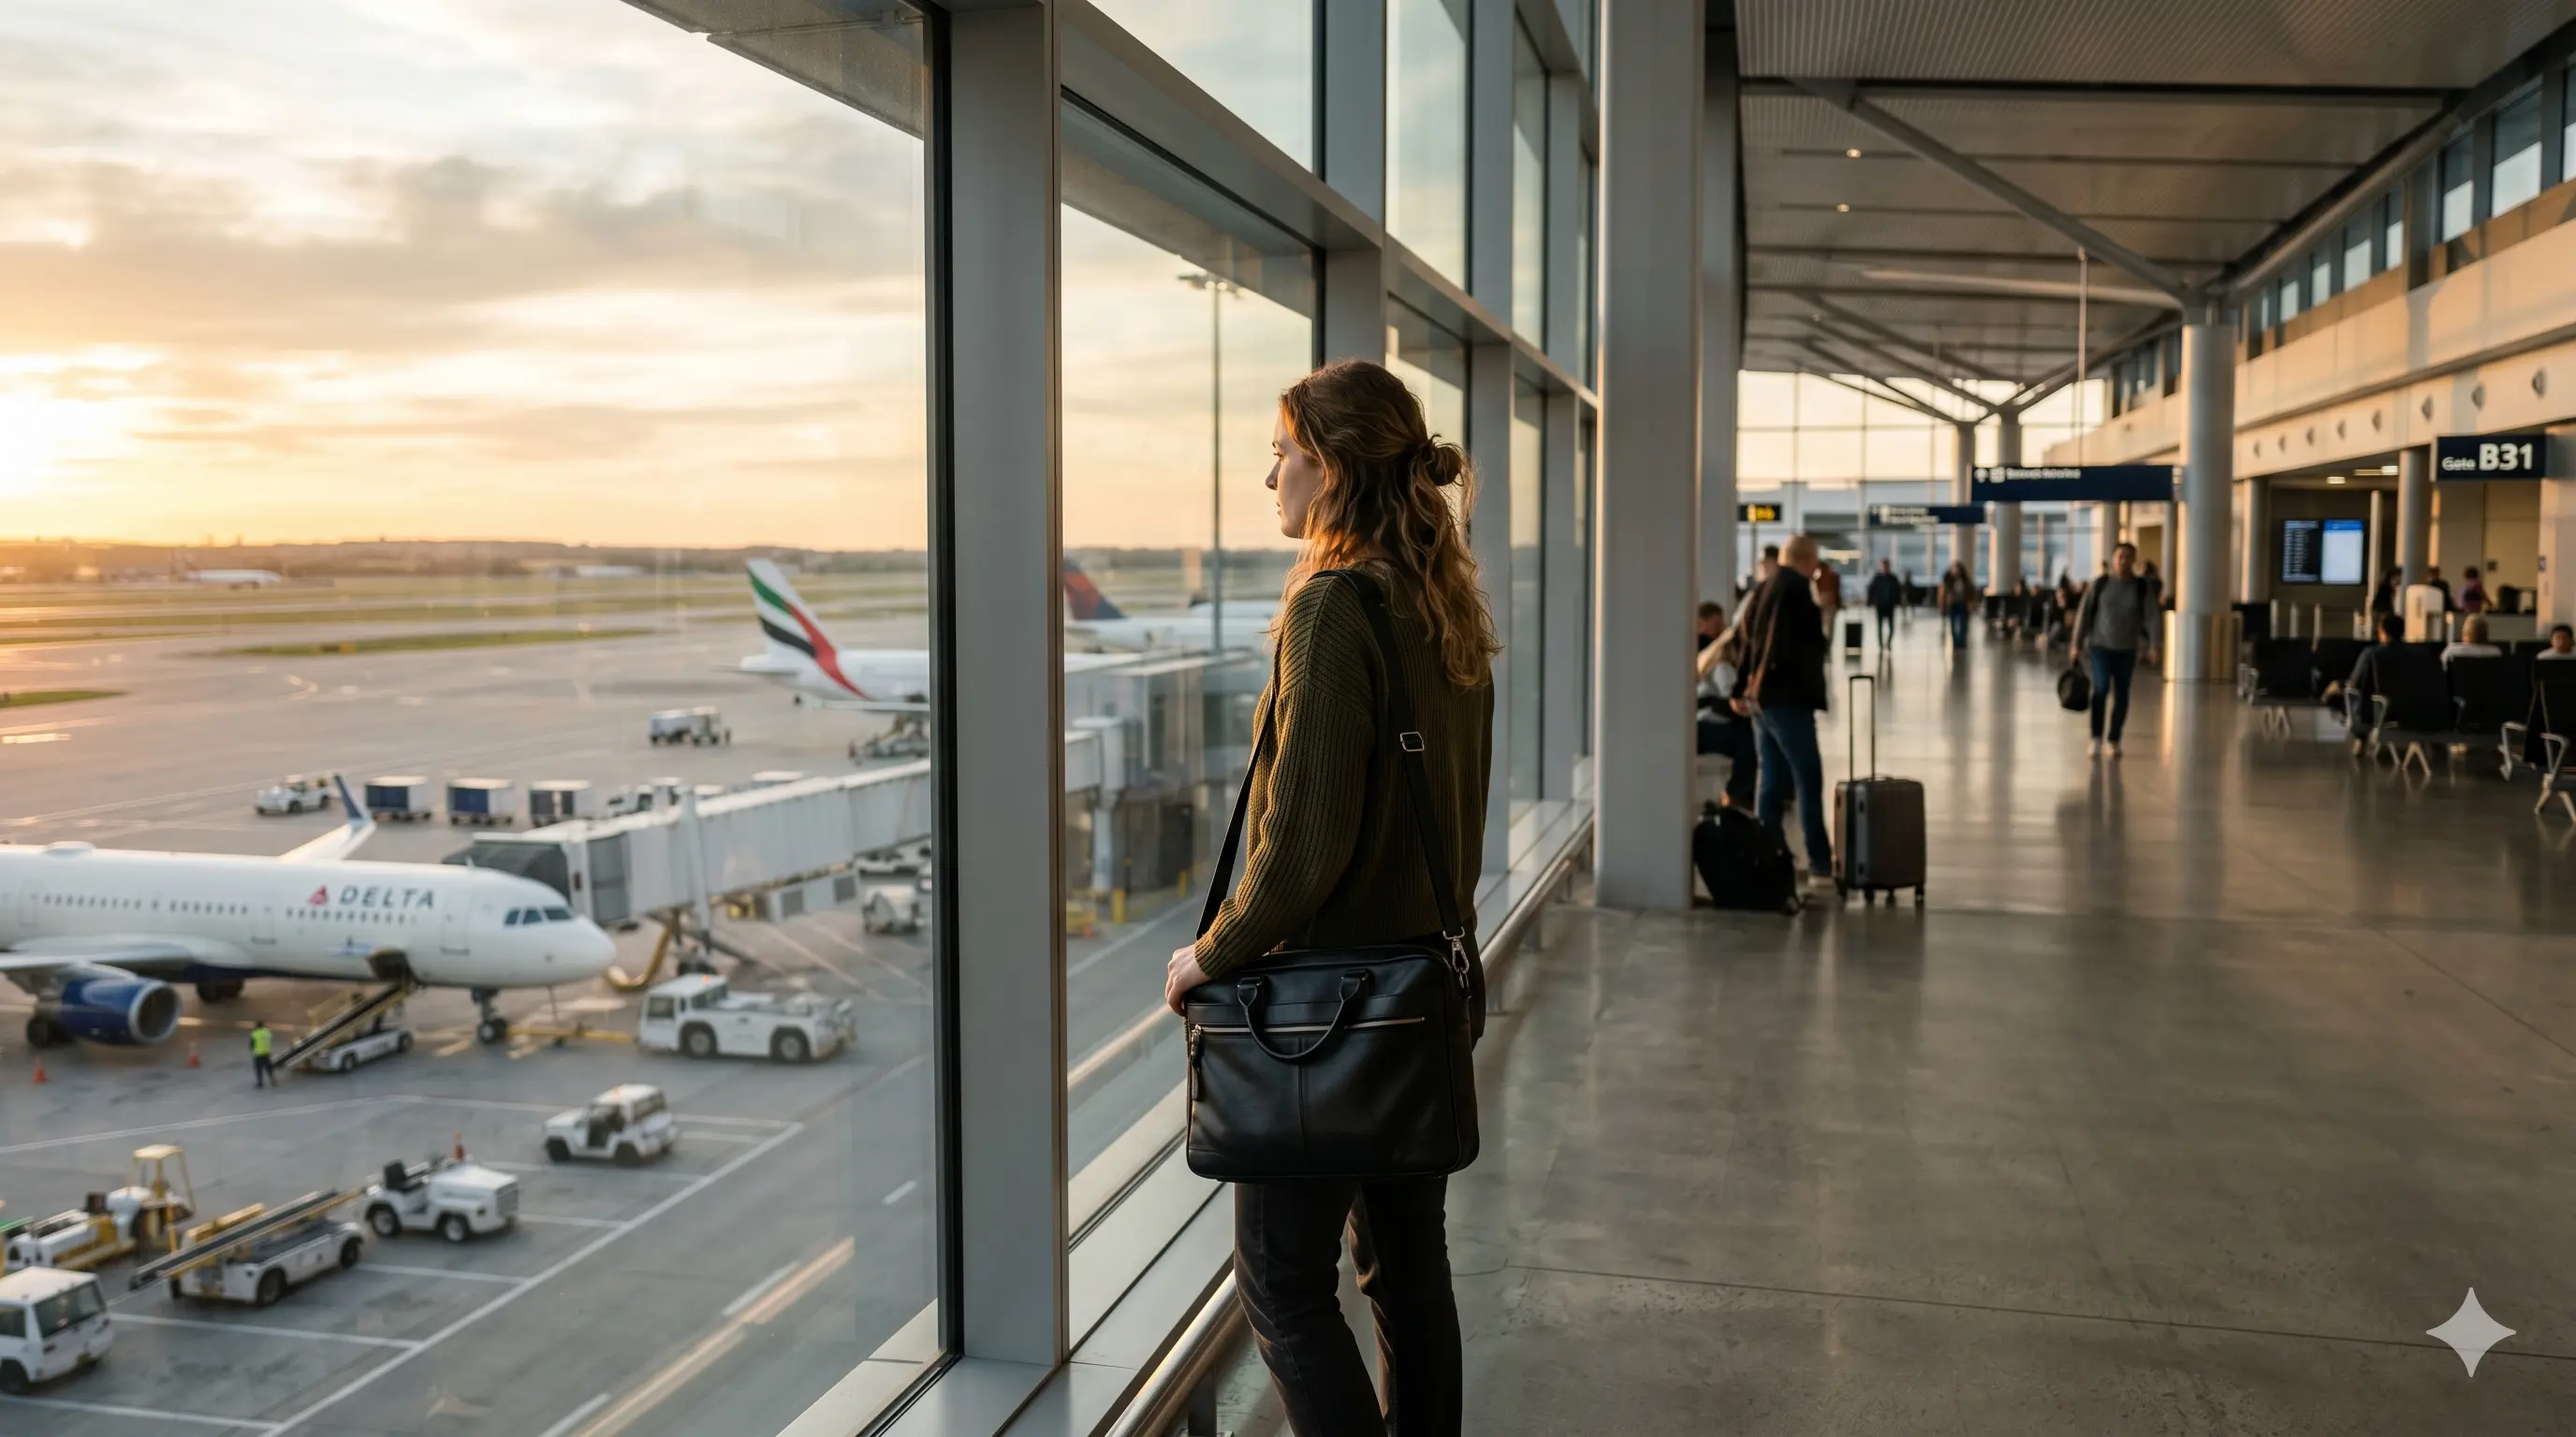
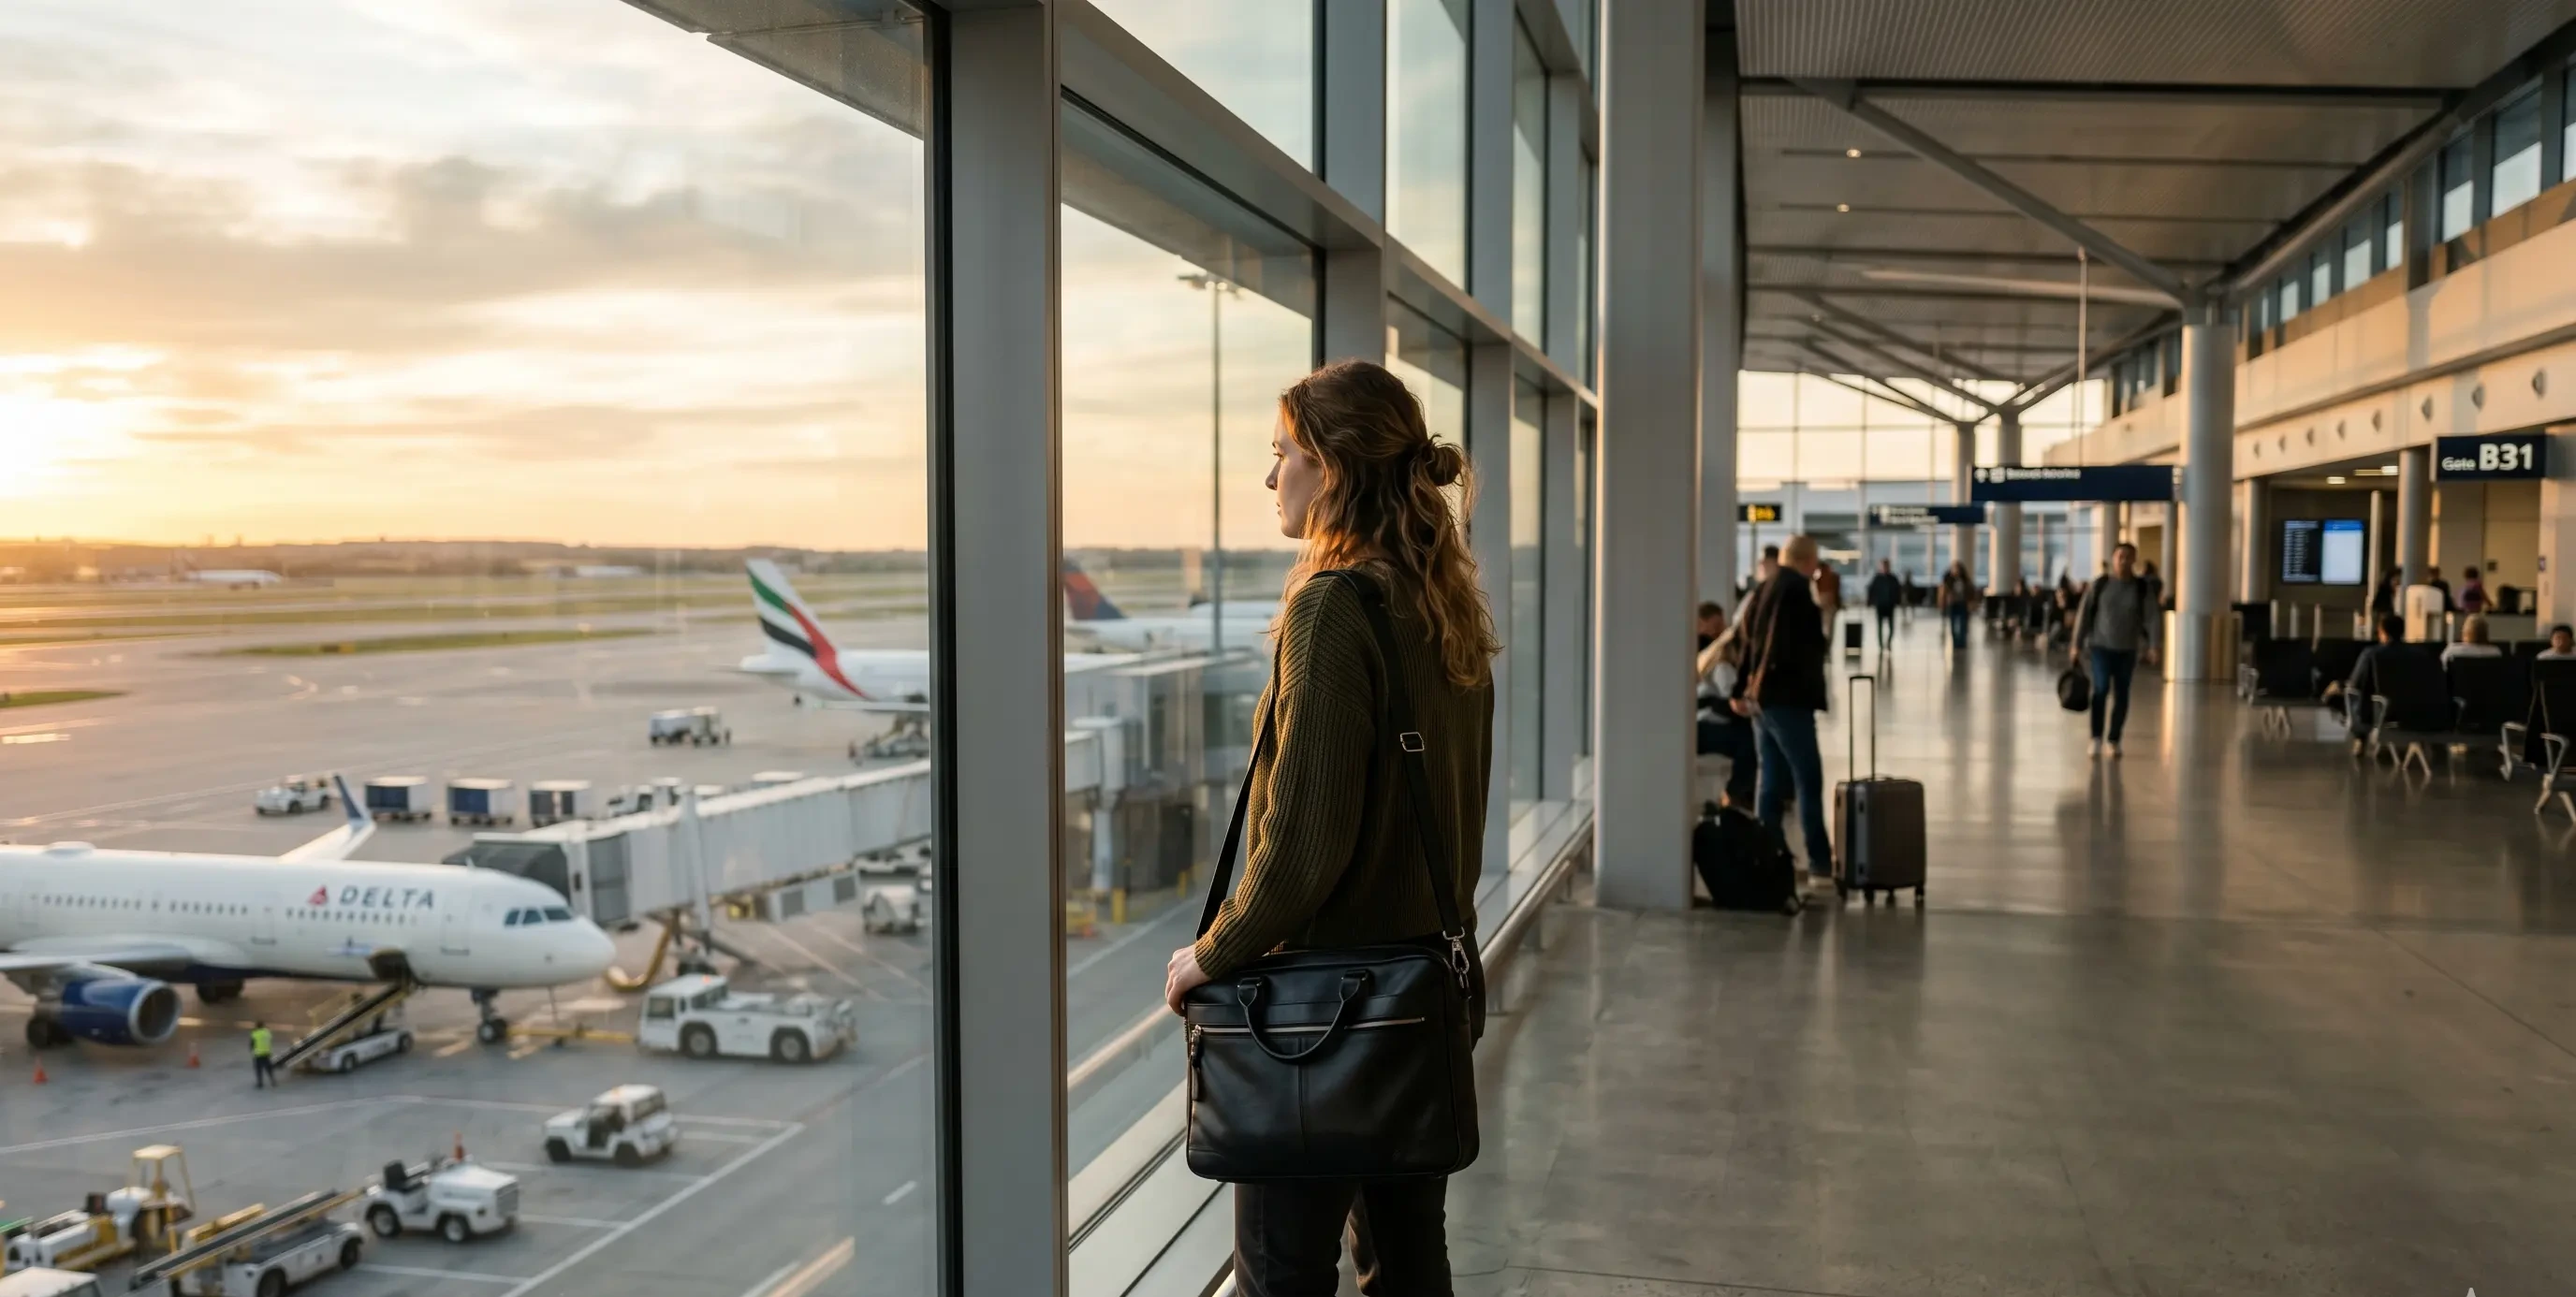
Fix invisible article body on mobile (remove fade-up from article-content) and crop watermark from expat-burnout hero image

diff --git a/blog/expat-couples-therapy/index.html b/blog/expat-couples-therapy/index.html
@@ -86,7 +86,7 @@
 <div class="article-hero-img" style="max-width:760px;margin:32px auto 0;border-radius:8px;overflow:hidden;height:clamp(200px,50vw,340px)"><img src="/blog-expat-couples-therapy.webp" alt="Couple sitting together looking through apartment window at a foreign city skyline" style="width:100%;height:100%;object-fit:cover;object-position:center top" loading="eager"></div>
 </div></section>
 <!-- ARTICLE BODY -->
-<section class="article-body"><div class="container"><div class="article-content fade-up">
+<section class="article-body"><div class="container"><div class="article-content">
 
   <p>The move was supposed to bring you closer. A shared adventure, a fresh start, a chapter you were writing together. Instead, six months in, you are fighting about things that never used to be problems. Or worse, you have stopped fighting altogether and settled into a silence that feels heavier every week.</p>
 

diff --git a/es/blog/como-saber-si-necesitas-terapia/index.html b/es/blog/como-saber-si-necesitas-terapia/index.html
@@ -91,7 +91,7 @@
 </div></section>
 
 <!-- ARTICLE BODY -->
-<section class="article-body"><div class="container"><div class="article-content fade-up">
+<section class="article-body"><div class="container"><div class="article-content">
 
   <p>La pregunta "¿necesito terapia?" suele llegar mucho después de que la respuesta ya sea sí. No porque las personas estén en negación, sino porque el paso de "estoy pasando por un momento difícil" a "esto es algo que no puedo resolver por mi cuenta" es gradual. No hay un único momento en el que se cruza la línea. Hay una acumulación lenta de evidencias de que algo estructural ha cambiado en tu funcionamiento, y cuando llegas a buscar una respuesta, el patrón habitualmente lleva meses funcionando.</p>
 

diff --git a/blog/how-to-know-if-you-need-therapy/index.html b/blog/how-to-know-if-you-need-therapy/index.html
@@ -91,7 +91,7 @@
 </div></section>
 
 <!-- ARTICLE BODY -->
-<section class="article-body"><div class="container"><div class="article-content fade-up">
+<section class="article-body"><div class="container"><div class="article-content">
 
   <p>The question "do I need therapy?" usually arrives long after the answer has become yes. Not because people are in denial, but because the shift from "I am going through a rough patch" to "this is something I cannot resolve on my own" is gradual. There is no single moment where the line is crossed. There is a slow accumulation of evidence that something structural has changed in how you are functioning, and by the time you search for an answer, the pattern has often been running for months.</p>
 

diff --git a/es/blog/inteligencia-emocional-salud-mental/index.html b/es/blog/inteligencia-emocional-salud-mental/index.html
@@ -91,7 +91,7 @@
 </div></section>
 
 <!-- ARTICLE BODY -->
-<section class="article-body"><div class="container"><div class="article-content fade-up">
+<section class="article-body"><div class="container"><div class="article-content">
 
   <p>La inteligencia emocional se ha convertido en uno de los conceptos m&aacute;s referenciados en psicolog&iacute;a, liderazgo, educaci&oacute;n y autoayuda. Tambi&eacute;n se ha convertido en uno de los m&aacute;s incomprendidos. En el uso popular, la inteligencia emocional a menudo se reduce a "ser h&aacute;bil con las personas" o "mantener la calma bajo presi&oacute;n". Estas descripciones no son incorrectas, pero son incompletas de maneras que importan cl&iacute;nicamente.</p>
 

diff --git a/es/blog/tecnicas-regulacion-emocional/index.html b/es/blog/tecnicas-regulacion-emocional/index.html
@@ -91,7 +91,7 @@
 </div></section>
 
 <!-- ARTICLE BODY -->
-<section class="article-body"><div class="container"><div class="article-content fade-up">
+<section class="article-body"><div class="container"><div class="article-content">
 
   <p>Sabes que estás reaccionando de forma exagerada. Lo ves suceder en tiempo real. La intensidad de lo que sientes no corresponde a la situación que lo ha desencadenado, y sin embargo no puedes detenerlo. La rabia explota antes de que puedas atraparla. Las lágrimas vienen antes de entender por qué. O lo contrario: no sientes nada cuando sabes que deberías sentir algo, y esa planeidad es en sí misma una alarma.</p>
 

diff --git a/blog/emotional-regulation-techniques/index.html b/blog/emotional-regulation-techniques/index.html
@@ -91,7 +91,7 @@
 </div></section>
 
 <!-- ARTICLE BODY -->
-<section class="article-body"><div class="container"><div class="article-content fade-up">
+<section class="article-body"><div class="container"><div class="article-content">
 
   <p>You know you are overreacting. You can see it happening in real time. The intensity of what you feel does not match the situation that triggered it, and yet you cannot stop it. The anger erupts before you can catch it. The tears come before you understand why. Or the opposite: you feel nothing at all when you know you should feel something, and that flatness is its own kind of alarm.</p>
 

diff --git a/blog/emotional-intelligence-mental-health/index.html b/blog/emotional-intelligence-mental-health/index.html
@@ -91,7 +91,7 @@
 </div></section>
 
 <!-- ARTICLE BODY -->
-<section class="article-body"><div class="container"><div class="article-content fade-up">
+<section class="article-body"><div class="container"><div class="article-content">
 
   <p>Emotional intelligence has become one of the most referenced concepts in psychology, leadership, education, and self-help. It has also become one of the most misunderstood. In popular usage, emotional intelligence often gets reduced to "being good with people" or "staying calm under pressure." These descriptions are not wrong, but they are incomplete in ways that matter clinically.</p>
 

diff --git a/es/blog/funciona-la-terapia-online/index.html b/es/blog/funciona-la-terapia-online/index.html
@@ -91,7 +91,7 @@
 </div></section>
 
 <!-- ARTICLE BODY -->
-<section class="article-body"><div class="container"><div class="article-content fade-up">
+<section class="article-body"><div class="container"><div class="article-content">
 
   <p>La pregunta aparece en casi todas las consultas iniciales: "¿La terapia online es tan buena como estar en la misma habitación?" Es una pregunta razonable. La terapia se construye sobre la relación entre terapeuta y cliente, y es natural preguntarse si una pantalla puede sostener esa relación con la misma profundidad y precisión que la presencia física.</p>
 

diff --git a/es/blog/burnout-expatriados/index.html b/es/blog/burnout-expatriados/index.html
@@ -91,7 +91,7 @@
 </div></section>
 
 <!-- ARTICLE BODY -->
-<section class="article-body"><div class="container"><div class="article-content fade-up">
+<section class="article-body"><div class="container"><div class="article-content">
 
   <p>Te mudaste a un nuevo país por una buena razón. Crecimiento profesional, una relación, aventura, una mejor calidad de vida. La decisión fue deliberada. Nadie te obligó. Y sin embargo, meses o años después de la experiencia, estás funcionando con reservas vacías de una manera que no encaja con la vida que creías estar construyendo.</p>
 

diff --git a/blog/does-online-therapy-work/index.html b/blog/does-online-therapy-work/index.html
@@ -91,7 +91,7 @@
 </div></section>
 
 <!-- ARTICLE BODY -->
-<section class="article-body"><div class="container"><div class="article-content fade-up">
+<section class="article-body"><div class="container"><div class="article-content">
 
   <p>The question comes up in nearly every initial consultation: "Is online therapy as good as being in the same room?" It is a reasonable question. Therapy is built on the relationship between therapist and client, and it is natural to wonder whether a screen can support that relationship with the same depth and precision as physical presence.</p>
 

diff --git a/blog/expat-burnout/index.html b/blog/expat-burnout/index.html
@@ -91,7 +91,7 @@
 </div></section>
 
 <!-- ARTICLE BODY -->
-<section class="article-body"><div class="container"><div class="article-content fade-up">
+<section class="article-body"><div class="container"><div class="article-content">
 
   <p>You moved to a new country for a good reason. Career growth, a relationship, adventure, a better quality of life. The decision was deliberate. Nobody forced you. And yet, months or years into the experience, you are running on empty in a way that does not match the life you thought you were building.</p>
 

diff --git a/es/blog/burnout-vs-depresion/index.html b/es/blog/burnout-vs-depresion/index.html
@@ -91,7 +91,7 @@
 </div></section>
 
 <!-- ARTICLE BODY -->
-<section class="article-body"><div class="container"><div class="article-content fade-up">
+<section class="article-body"><div class="container"><div class="article-content">
 
   <p>Estás agotado. Llevas meses agotado. El sueño no te restaura. La concentración se ha vuelto poco fiable. La motivación ha caído a un nivel que habrías considerado irreconocible hace un año. La pregunta que probablemente te estás haciendo es: ¿esto es burnout o es depresión?</p>
 
